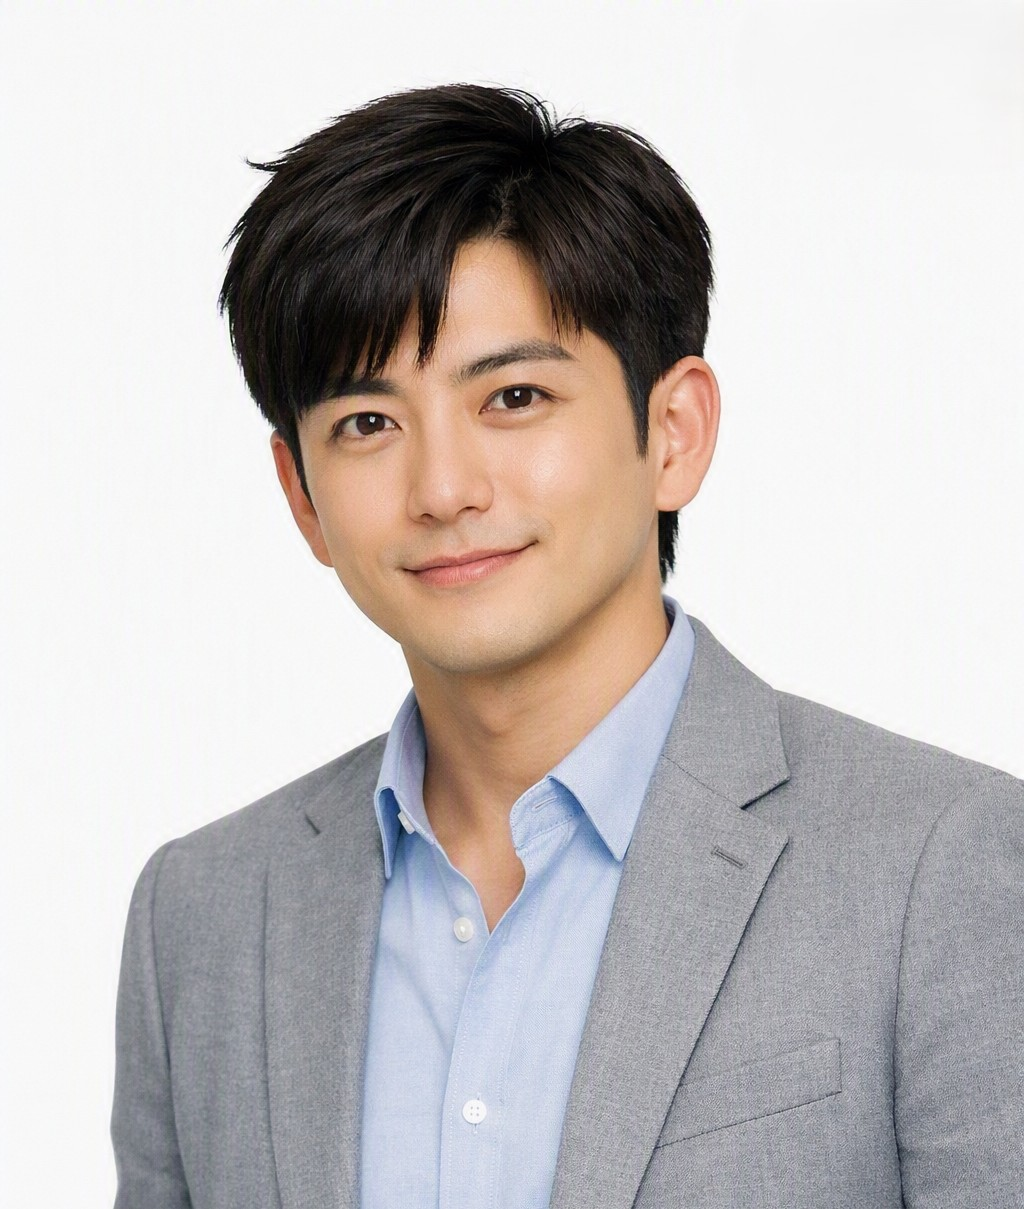
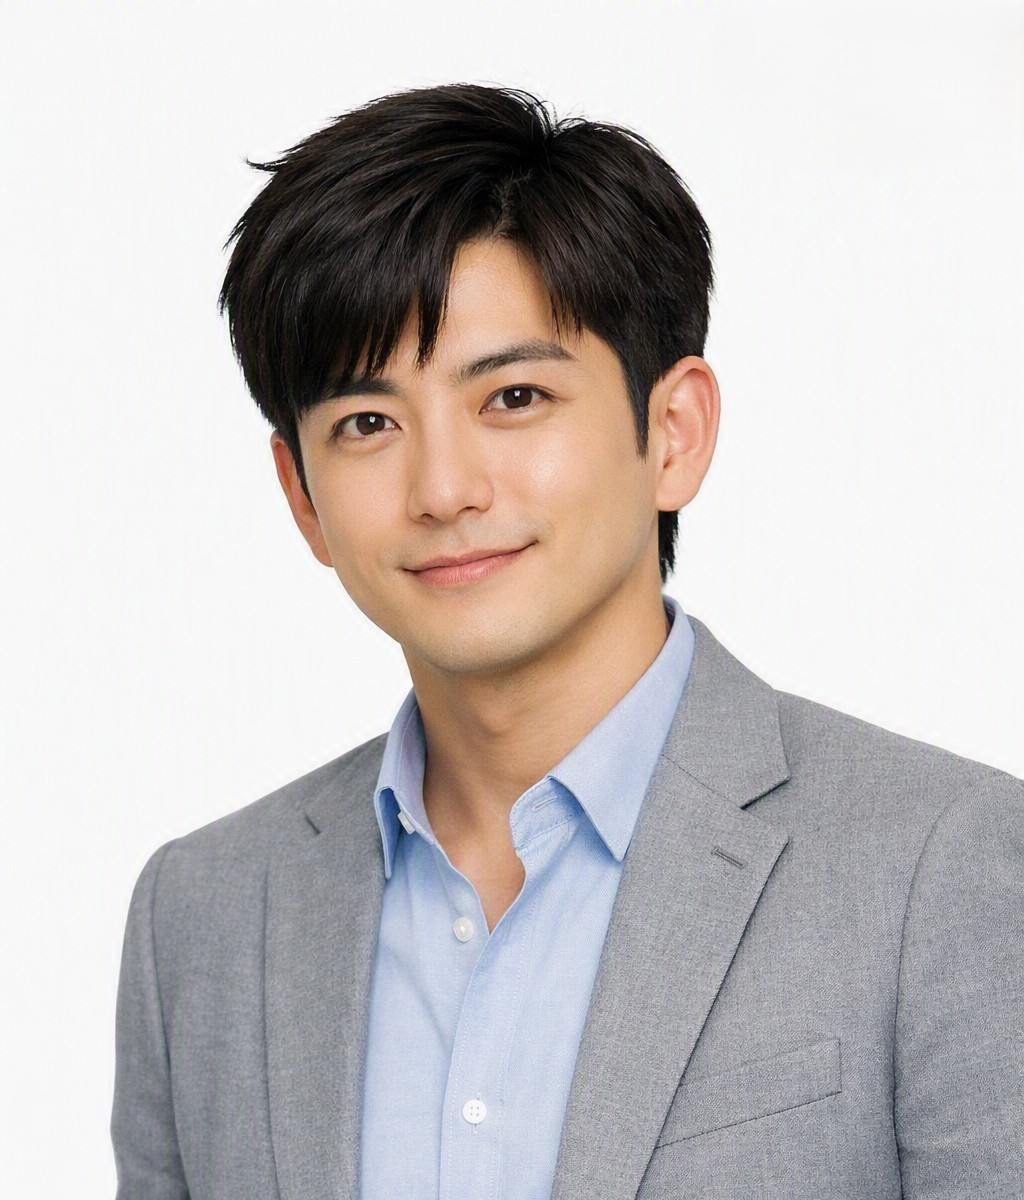
Add files via upload

diff --git a/index.html b/index.html
@@ -3,66 +3,81 @@
 <head>
   <meta charset="UTF-8" />
   <meta name="viewport" content="width=device-width, initial-scale=1" />
-  <title>로스터리 무드 — 스페셜티 커피 브랜드</title>
+  <title>Joon Lee — 산업차량 전장설계 엔지니어</title>
+  <meta name="description" content="HD현대사이트솔루션 산업차량 부문 전장설계 엔지니어 Joon Lee의 소개 페이지." />
   <link rel="stylesheet" href="style.css" />
 </head>
 <body>
   <header class="nav">
     <div class="nav__inner">
-      <a href="#top" class="brand">MOOD <span>roastery</span></a>
+      <a href="#top" class="brand">JOON <span>lee</span></a>
       <nav>
-        <a href="#menu">메뉴</a>
-        <a href="#story">스토리</a>
-        <a href="#shops">매장</a>
-        <a href="#reserve">예약</a>
+        <a href="#expertise">전문분야</a>
+        <a href="#story">성장스토리</a>
+        <a href="#credentials">자격·수상</a>
+        <a href="#contact">연락처</a>
       </nav>
-      <a href="#reserve" class="btn">테이블 예약</a>
+      <a href="#contact" class="btn">연락하기</a>
     </div>
   </header>
 
   <main id="top">
     <section class="hero">
-      <div class="hero__bg" aria-hidden="true"></div>
       <div class="hero__txt">
-        <p class="kicker">SINCE 2019 · SEOUL</p>
-        <h1>매일 마셔도<br/>좋은 한 잔.</h1>
-        <p class="lead">에티오피아 예가체프부터 콜롬비아 게이샤까지, 매주 새로운 원두를 직접 로스팅합니다.</p>
+        <p class="kicker">HD현대사이트솔루션 · 산업차량 전장설계</p>
+        <h1>회로 하나에도<br/>안전을 담습니다.</h1>
+        <p class="lead">해양설계에서 시작해 산업차량 전장설계로 이어진 설계 경력. 전동화와 안전 시스템을 중심으로 현장에서 신뢰받는 회로를 만듭니다.</p>
         <div class="hero__cta">
-          <a href="#menu" class="btn btn--solid">오늘의 메뉴</a>
-          <a href="#story" class="btn btn--ghost">브랜드 이야기</a>
+          <a href="#story" class="btn btn--solid">성장 스토리 보기</a>
+          <a href="#credentials" class="btn btn--ghost">자격·수상 보기</a>
         </div>
+      </div>
+      <div class="hero__photo">
+        <img src="profile.jpg" alt="Joon Lee 프로필 사진" />
       </div>
     </section>
 
-    <section id="menu" class="section">
+    <section id="expertise" class="section">
       <div class="section__head">
-        <p class="kicker">MENU</p>
-        <h2>이번 주의 메뉴</h2>
+        <p class="kicker">EXPERTISE</p>
+        <h2>산업차량 전장을 구성하는<br class="mobile-only"/> 6가지 축</h2>
       </div>
       <div class="menu-grid">
         <article class="menu-card">
           <div class="thumb thumb--1"></div>
-          <h3>에티오피아 예가체프</h3>
-          <p>플로럴 · 베리 · 시트러스</p>
-          <div class="row"><span>₩6,500</span><button class="add">담기</button></div>
+          <h3>전장 설계</h3>
+          <p>산업차량 전기·전자 회로 및 배선 시스템을 설계합니다.</p>
+          <div class="row"><span class="tag">Core Skill</span></div>
         </article>
         <article class="menu-card">
           <div class="thumb thumb--2"></div>
-          <h3>콜롬비아 게이샤</h3>
-          <p>자스민 · 복숭아 · 깔끔한 산미</p>
-          <div class="row"><span>₩9,800</span><button class="add">담기</button></div>
+          <h3>전동화</h3>
+          <p>배터리 기반 구동 시스템으로의 전환을 설계합니다.</p>
+          <div class="row"><span class="tag">Core Skill</span></div>
         </article>
         <article class="menu-card">
           <div class="thumb thumb--3"></div>
-          <h3>플랫화이트</h3>
-          <p>고소한 우유 · 카라멜 피니시</p>
-          <div class="row"><span>₩5,500</span><button class="add">담기</button></div>
+          <h3>안전 시스템</h3>
+          <p>작업자와 장비를 보호하는 안전 기능을 설계에 반영합니다.</p>
+          <div class="row"><span class="tag">Core Skill</span></div>
         </article>
         <article class="menu-card">
           <div class="thumb thumb--4"></div>
-          <h3>아이스 라떼</h3>
-          <p>부드러운 바디 · 다크 초콜릿</p>
-          <div class="row"><span>₩5,800</span><button class="add">담기</button></div>
+          <h3>센서·카메라</h3>
+          <p>주행과 작업 환경을 인식하는 시스템을 통합합니다.</p>
+          <div class="row"><span class="tag">Core Skill</span></div>
+        </article>
+        <article class="menu-card">
+          <div class="thumb thumb--5"></div>
+          <h3>제어 시스템</h3>
+          <p>구동부와 안전 로직을 통합 제어하는 시스템을 설계합니다.</p>
+          <div class="row"><span class="tag">Core Skill</span></div>
+        </article>
+        <article class="menu-card">
+          <div class="thumb thumb--6"></div>
+          <h3>Communication 설계</h3>
+          <p>해양 전장에서 다진 통신 계통 노하우를 접목합니다.</p>
+          <div class="row"><span class="tag">Core Skill</span></div>
         </article>
       </div>
     </section>
@@ -70,61 +85,56 @@
     <section id="story" class="story">
       <div class="story__img" aria-hidden="true"></div>
       <div class="story__txt">
-        <p class="kicker">OUR STORY</p>
-        <h2>작은 로스터리에서<br/>매일 한 봉지씩.</h2>
-        <p>2019년 망원동의 4평짜리 공간에서 시작했습니다. "오늘 볶은 원두만 판다"는 원칙으로 시작해, 지금은 4개 매장에서 매일 30kg의 원두를 직접 로스팅하고 있습니다.</p>
+        <p class="kicker">GROWTH STORY</p>
+        <h2>해양에서 산업차량까지,<br/>이어진 설계 여정.</h2>
+        <p>2012년 대우조선해양에서 전장설계로 커리어를 시작해, 해양전장 Communication 설계를 거쳐 2021년부터 HD현대사이트솔루션 산업차량 부문에서 전장설계를 담당하고 있습니다. 서로 다른 두 산업을 넘나들며 쌓은 감각을 전동화와 안전 기술에 접목하고 있습니다.</p>
         <ul class="bullets">
-          <li>매일 갓 볶은 원두만 판매</li>
-          <li>SCA Q-Grader 인증 큐레이션</li>
-          <li>정기 구독 시 첫 달 30% 할인</li>
+          <li>2012.01 – 2016.01 · 대우조선해양, 대리, 전장설계</li>
+          <li>2016.02 – 2021.01 · 해양설계, 해양전장 Communication 설계</li>
+          <li>2021.01 – 현재 · HD현대사이트솔루션, 산업차량 전장설계</li>
+          <li>다음 목표 · 전장기술·안전·서비스 개발로 역량 확장</li>
         </ul>
       </div>
     </section>
 
-    <section id="shops" class="section">
-      <div class="section__head"><p class="kicker">SHOPS</p><h2>매장 안내</h2></div>
+    <section id="credentials" class="section">
+      <div class="section__head"><p class="kicker">CREDENTIALS</p><h2>자격 및 수상</h2></div>
       <div class="shops">
-        <div class="shop">
-          <h3>망원 본점</h3>
-          <p>서울 마포구 망원로 123<br/>매일 08:00 – 22:00</p>
+        <div class="shop shop--cert">
+          <h3>IECEx CoPC 방폭자격증</h3>
+          <p>취득일 2018.09.12<br/>발행처 ExCB · IECEx CP TRNR18.0086</p>
         </div>
         <div class="shop">
-          <h3>성수 작업실</h3>
-          <p>서울 성동구 연무장길 45<br/>매일 10:00 – 21:00</p>
+          <h3>우수지원상</h3>
+          <p>2025.12.03<br/>현장 지원 및 설계 협업 성과 인정</p>
         </div>
         <div class="shop">
-          <h3>한남 라운지</h3>
-          <p>서울 용산구 이태원로 88<br/>매일 09:00 – 23:00</p>
+          <h3>아이디어 공모전 포상 장려</h3>
+          <p>2020.01.20<br/>업무 개선 아이디어 제안</p>
         </div>
         <div class="shop">
-          <h3>판교 오피스점</h3>
-          <p>경기 성남시 분당구 판교역로 6<br/>평일 07:30 – 20:00</p>
+          <h3>차세대 우수인재상</h3>
+          <p>2019.07.15<br/>미래 핵심 인재 역량 인정</p>
         </div>
       </div>
     </section>
 
-    <section id="reserve" class="reserve">
+    <section id="contact" class="reserve">
       <div class="reserve__card">
-        <h2>테이블 예약</h2>
-        <p>주말 브런치 타임 · 4인 이상 예약 권장</p>
-        <form id="reserveForm" class="form">
-          <label>이름<input required name="name" type="text" placeholder="예약자 이름" /></label>
-          <label>인원<select name="people"><option>2명</option><option>3명</option><option>4명</option><option>5명+</option></select></label>
-          <label>날짜<input required name="date" type="date" /></label>
-          <label>시간<input required name="time" type="time" /></label>
-          <label class="full">메모<textarea name="memo" placeholder="알레르기, 요청사항"></textarea></label>
-          <button class="btn btn--solid full" type="submit">예약 신청하기</button>
-        </form>
-        <p id="ok" class="ok" hidden>예약이 신청되었어요. 문자로 확정 안내드릴게요 ☕</p>
+        <h2>연락하기</h2>
+        <p>산업차량 전장, 전동화, 안전 시스템에 대한 협업 및 제안은 언제든 환영합니다.</p>
+        <div class="contact__actions">
+          <a class="btn btn--solid full" href="mailto:example@email.com">이메일 보내기</a>
+          <a class="btn btn--ghost full" href="https://github.com/JoonS-Lee" target="_blank" rel="noopener">GitHub 방문하기</a>
+        </div>
       </div>
     </section>
   </main>
 
   <footer class="foot">
-    © 2025 MOOD Roastery · 사업자 등록번호 000-00-00000
+    © 2026 Joon Lee · HD현대사이트솔루션 산업차량 전장설계
   </footer>
 
   <script src="script.js"></script>
-<script type="module" src="https://static.cloudflareinsights.com/beacon.min.js/v4513226cdae34746b4dedf0b4dfa099e1781791509496" integrity="sha512-ZE9pZaUXND66v380QUtch/5sE9tPFh2zg45pR2PB0CVkCtOREv2AJKkSidISWkysEuQ0EH8faUU5du78bx87UQ==" data-cf-beacon='{"version":"2024.11.0","token":"c7ff09459b034bca86d316da146b68be","r":1}' crossorigin="anonymous"></script>
 </body>
 </html>

diff --git a/style.css b/style.css
@@ -7,19 +7,27 @@
   --line: #ebe2d5;
   --card: #fff;
 }
-html, body { background: var(--bg); color: var(--ink); font-family: 'Pretendard', system-ui, sans-serif; }
+html, body {
+  background: var(--bg);
+  color: var(--ink);
+  font-family: 'Pretendard', system-ui, sans-serif;
+  /* 한글 문장이 단어 중간에서 끊기지 않도록 어절 단위로 줄바꿈 */
+  word-break: keep-all;
+  overflow-wrap: break-word;
+}
 img { display: block; max-width: 100%; }
 a { color: inherit; text-decoration: none; }
+p, li, h1, h2, h3 { word-break: keep-all; overflow-wrap: break-word; }
 
 .nav { position: sticky; top: 0; background: rgba(250,246,240,.95); backdrop-filter: blur(8px); border-bottom: 1px solid var(--line); z-index: 10; }
 .nav__inner { max-width: 1180px; margin: 0 auto; padding: 16px 24px; display: flex; align-items: center; gap: 28px; }
-.brand { font-weight: 800; letter-spacing: 2px; font-size: 18px; }
+.brand { font-weight: 800; letter-spacing: 2px; font-size: 18px; white-space: nowrap; }
 .brand span { font-weight: 400; color: var(--muted); margin-left: 4px; font-size: 12px; }
 .nav nav { display: flex; gap: 22px; margin-left: auto; font-size: 14px; }
-.nav nav a { color: var(--muted); }
-.nav nav a:hover { color: var(--ink); }
+.nav nav a { color: var(--muted); white-space: nowrap; }
+.nav nav a:hover, .nav nav a.active { color: var(--ink); font-weight: 700; }
 
-.btn { display: inline-block; padding: 10px 18px; border-radius: 999px; font-size: 14px; cursor: pointer; transition: all .2s; border: 1px solid transparent; }
+.btn { display: inline-block; padding: 10px 18px; border-radius: 999px; font-size: 14px; cursor: pointer; transition: all .2s; border: 1px solid transparent; text-align: center; white-space: nowrap; }
 .btn--solid { background: var(--accent); color: #fff; }
 .btn--solid:hover { filter: brightness(1.05); }
 .btn--ghost { background: transparent; color: var(--ink); border-color: var(--ink); }
@@ -27,25 +35,25 @@ a { color: inherit; text-decoration: none; }
 .nav > .nav__inner > a.btn { background: var(--ink); color: #fff; padding: 9px 16px; font-size: 13px; }
 
 .hero { position: relative; max-width: 1180px; margin: 0 auto; padding: 60px 24px 80px; display: grid; grid-template-columns: 1.2fr 1fr; gap: 40px; align-items: center; }
-.hero__bg {
+.hero__photo {
   grid-column: 2 / 3;
   aspect-ratio: 4/5;
   border-radius: 16px;
-  background:
-    radial-gradient(circle at 30% 20%, rgba(255,255,255,.6) 0%, transparent 35%),
-    linear-gradient(135deg, #c98c5e, #6b3e22 60%, #2a221c);
+  overflow: hidden;
   box-shadow: 0 30px 60px -20px rgba(122,75,42,.45);
+  background: linear-gradient(135deg, #c98c5e, #6b3e22 60%, #2a221c);
 }
+.hero__photo img { width: 100%; height: 100%; object-fit: cover; }
 .kicker { font-size: 12px; letter-spacing: 3px; color: var(--accent); font-weight: 600; margin-bottom: 12px; }
-.hero h1 { font-size: clamp(38px, 5vw, 60px); line-height: 1.1; letter-spacing: -1px; margin-bottom: 16px; }
-.lead { color: var(--muted); font-size: 17px; max-width: 460px; margin-bottom: 22px; }
-.hero__cta { display: flex; gap: 10px; }
+.hero h1 { font-size: clamp(34px, 5vw, 56px); line-height: 1.28; letter-spacing: -1px; margin-bottom: 18px; }
+.lead { color: var(--muted); font-size: 17px; max-width: 46ch; margin-bottom: 22px; line-height: 1.7; }
+.hero__cta { display: flex; gap: 10px; flex-wrap: wrap; }
 
 .section { max-width: 1180px; margin: 0 auto; padding: 70px 24px; }
 .section__head { text-align: center; margin-bottom: 36px; }
-.section__head h2 { font-size: 30px; }
+.section__head h2 { font-size: 30px; line-height: 1.35; max-width: 32ch; margin: 0 auto; }
 
-.menu-grid { display: grid; grid-template-columns: repeat(auto-fit, minmax(220px, 1fr)); gap: 20px; }
+.menu-grid { display: grid; grid-template-columns: repeat(auto-fit, minmax(240px, 1fr)); gap: 20px; }
 .menu-card { background: var(--card); border-radius: 14px; padding: 18px; border: 1px solid var(--line); transition: transform .2s, box-shadow .2s; }
 .menu-card:hover { transform: translateY(-4px); box-shadow: 0 10px 30px rgba(0,0,0,.06); }
 .thumb { aspect-ratio: 4/3; border-radius: 10px; margin-bottom: 14px; }
@@ -53,50 +61,49 @@ a { color: inherit; text-decoration: none; }
 .thumb--2 { background: linear-gradient(135deg, #efd9b0, #c98c5e); }
 .thumb--3 { background: linear-gradient(135deg, #f2e6d6, #b6936e); }
 .thumb--4 { background: linear-gradient(135deg, #6b5641, #2a221c); }
-.menu-card h3 { font-size: 16px; margin-bottom: 4px; }
-.menu-card p { color: var(--muted); font-size: 13px; margin-bottom: 14px; }
+.thumb--5 { background: linear-gradient(135deg, #b6936e, #4a3320); }
+.thumb--6 { background: linear-gradient(135deg, #e3c9a3, #7a4b2a); }
+.menu-card h3 { font-size: 16px; margin-bottom: 6px; line-height: 1.4; }
+.menu-card p { color: var(--muted); font-size: 13.5px; margin-bottom: 14px; line-height: 1.65; }
 .row { display: flex; align-items: center; justify-content: space-between; font-weight: 600; }
-.add { background: var(--ink); color: #fff; border: 0; padding: 7px 12px; border-radius: 999px; font-size: 12px; cursor: pointer; }
-.add:hover { background: var(--accent); }
-.add.added { background: #2b8a3e; }
+.tag { display: inline-block; background: var(--bg); border: 1px solid var(--line); color: var(--accent); font-size: 12px; font-weight: 700; padding: 5px 12px; border-radius: 999px; }
 
 .story { max-width: 1180px; margin: 30px auto; padding: 30px 24px; display: grid; grid-template-columns: 1fr 1fr; gap: 50px; align-items: center; }
 .story__img {
   aspect-ratio: 1/1; border-radius: 16px;
   background:
+    linear-gradient(rgba(255,255,255,.14) 1px, transparent 1px),
+    linear-gradient(90deg, rgba(255,255,255,.14) 1px, transparent 1px),
     radial-gradient(ellipse at 60% 40%, #efd9b0, transparent 60%),
     linear-gradient(160deg, #c98c5e, #5a3320);
+  background-size: 28px 28px, 28px 28px, auto, auto;
 }
-.story h2 { font-size: 30px; line-height: 1.2; margin-bottom: 14px; }
-.story p { color: var(--muted); margin-bottom: 16px; }
+.story h2 { font-size: 30px; line-height: 1.35; margin-bottom: 14px; }
+.story p { color: var(--muted); margin-bottom: 16px; line-height: 1.75; max-width: 46ch; }
 .bullets { padding-left: 20px; color: var(--muted); }
-.bullets li { padding: 4px 0; }
+.bullets li { padding: 5px 0; line-height: 1.6; }
 
 .shops { display: grid; grid-template-columns: repeat(auto-fit, minmax(230px, 1fr)); gap: 14px; }
 .shop { background: var(--card); border: 1px solid var(--line); border-radius: 12px; padding: 18px; }
-.shop h3 { font-size: 16px; margin-bottom: 6px; }
-.shop p { color: var(--muted); font-size: 13px; line-height: 1.6; }
+.shop--cert { background: linear-gradient(160deg, var(--ink), #4a3320); border-color: transparent; color: #fff; }
+.shop--cert h3, .shop--cert p { color: #fff; }
+.shop h3 { font-size: 16px; margin-bottom: 6px; line-height: 1.4; }
+.shop p { color: var(--muted); font-size: 13px; line-height: 1.7; }
 
 .reserve { max-width: 760px; margin: 0 auto; padding: 60px 24px 80px; }
 .reserve__card { background: var(--card); border: 1px solid var(--line); border-radius: 16px; padding: 32px; }
 .reserve h2 { font-size: 24px; }
-.reserve > .reserve__card > p { color: var(--muted); margin-bottom: 18px; }
-.form { display: grid; grid-template-columns: 1fr 1fr; gap: 14px; }
-.form label { display: block; font-size: 12px; color: var(--muted); }
-.form .full { grid-column: 1 / -1; }
-.form input, .form select, .form textarea {
-  width: 100%; padding: 10px 12px; border-radius: 8px;
-  border: 1px solid var(--line); background: var(--bg);
-  font-family: inherit; font-size: 14px; margin-top: 4px;
-}
-.form textarea { min-height: 70px; resize: vertical; }
-.form .btn { border: 0; }
-.ok { margin-top: 14px; color: #2b8a3e; font-size: 14px; }
+.reserve > .reserve__card > p { color: var(--muted); margin-bottom: 22px; line-height: 1.7; max-width: 46ch; }
+.contact__actions { display: flex; gap: 12px; flex-wrap: wrap; }
+.contact__actions .full { flex: 1 1 200px; }
 
 .foot { text-align: center; padding: 28px; color: var(--muted); font-size: 13px; border-top: 1px solid var(--line); }
 
+.mobile-only { display: none; }
+
 @media (max-width: 760px) {
   .hero, .story { grid-template-columns: 1fr; }
-  .hero__bg { grid-column: 1; max-height: 320px; }
-  .form { grid-template-columns: 1fr; }
+  .hero__photo { grid-column: 1; max-height: 320px; }
+  .nav nav { display: none; }
+  .mobile-only { display: inline; }
 }

diff --git a/script.js b/script.js
@@ -1,12 +1,3 @@
-// 메뉴 담기
-document.querySelectorAll('.add').forEach((btn) => {
-  btn.addEventListener('click', () => {
-    btn.textContent = '담음';
-    btn.classList.add('added');
-    setTimeout(() => { btn.textContent = '담기'; btn.classList.remove('added'); }, 1500);
-  });
-});
-
 // 부드러운 스크롤
 document.querySelectorAll('a[href^="#"]').forEach((a) => {
   a.addEventListener('click', (e) => {
@@ -18,9 +9,19 @@ document.querySelectorAll('a[href^="#"]').forEach((a) => {
   });
 });
 
-// 예약 폼
-document.getElementById('reserveForm').addEventListener('submit', (e) => {
-  e.preventDefault();
-  document.getElementById('ok').hidden = false;
-  e.target.reset();
-});
+// 네비게이션 활성 링크 표시
+const sections = ['expertise', 'story', 'credentials', 'contact']
+  .map((id) => document.getElementById(id))
+  .filter(Boolean);
+const navLinks = Array.from(document.querySelectorAll('.nav nav a'));
+const spy = new IntersectionObserver(
+  (entries) => {
+    entries.forEach((entry) => {
+      if (!entry.isIntersecting) return;
+      const id = entry.target.id;
+      navLinks.forEach((l) => l.classList.toggle('active', l.getAttribute('href') === '#' + id));
+    });
+  },
+  { rootMargin: '-40% 0px -55% 0px' }
+);
+sections.forEach((s) => spy.observe(s));
